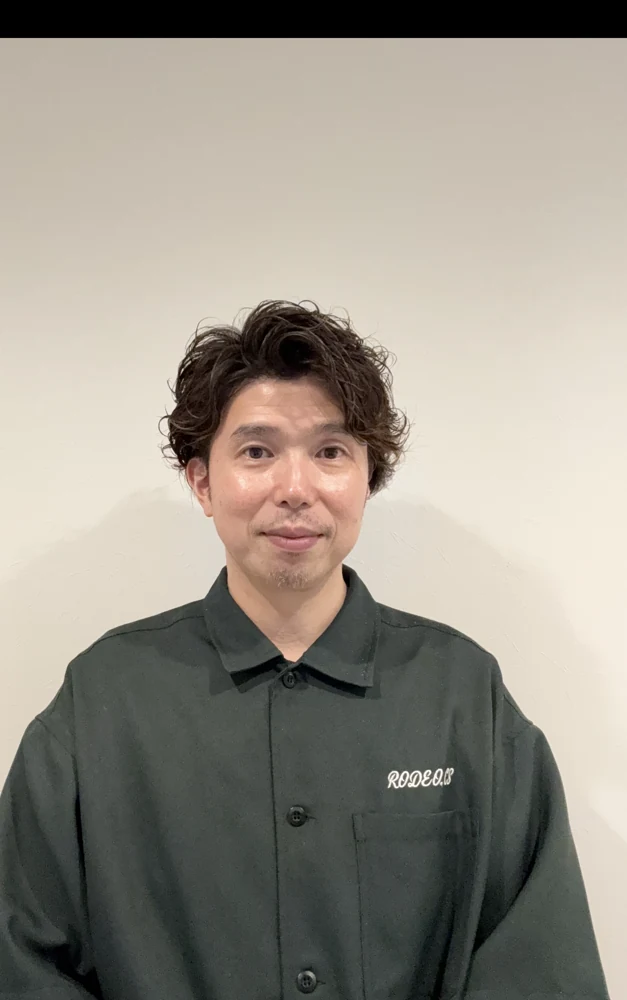
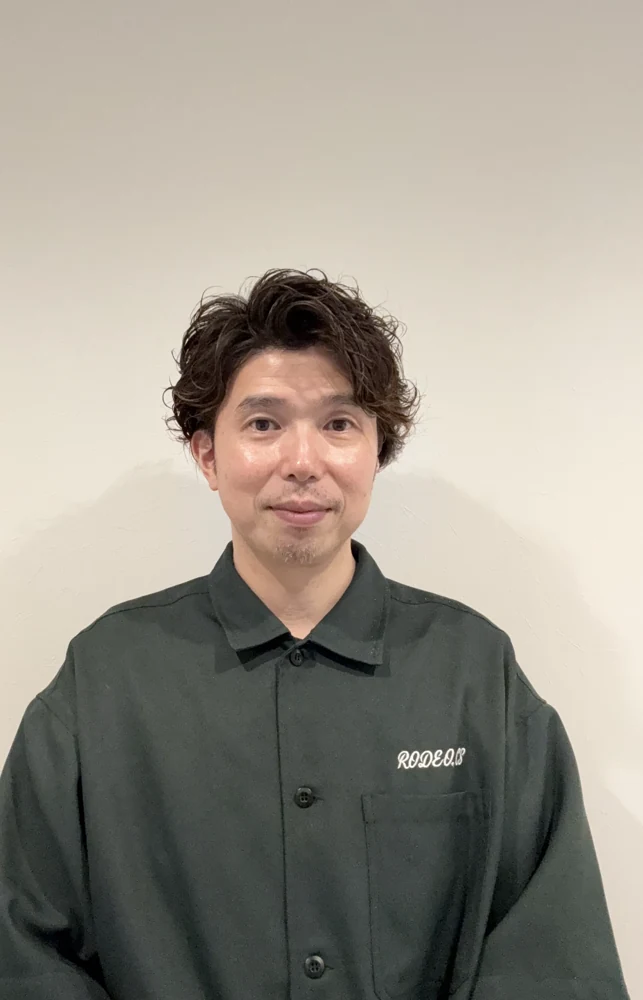
Trim black borders from Hirata portrait

diff --git a/aqua-lp/lp/index.html b/aqua-lp/lp/index.html
@@ -1,1 +1,1 @@
-<!doctype html><html lang="ja"><head><meta charset="utf-8"><meta name="viewport" content="width=device-width,initial-scale=1"><meta name="robots" content="noindex,nofollow"><title>AQUA｜白髪ぼかし・髪質改善｜大和駅徒歩2分</title><meta name="description" content="大和駅徒歩2分。白髪ぼかし・髪質改善に特化した大人女性のためのプライベートサロンAQUA。初回約30分の丁寧なカウンセリングで髪のお悩みに寄り添います。"><link rel="stylesheet" href="style.css"><script src="script.js" defer></script></head><body><a class="skip" href="#main">本文へ</a><aside class="sb-left"><a class="logo" href="#top">AQUA<span>HAIR SALON / YAMATO</span></a><p class="side-message">これからも、<br>髪を楽しむ私へ。</p><nav><a href="#problem"><span>01</span>髪のお悩み</a><a href="#reason"><span>02</span>選ばれる理由</a><a href="#menu"><span>03</span>メニュー・料金</a><a href="#proof"><span>04</span>施術事例</a><a href="#voice"><span>05</span>実績・お客様の声</a><a href="#staff"><span>06</span>スタッフ</a><a href="#faq"><span>07</span>よくある質問</a><a href="#access"><span>08</span>店舗・アクセス</a></nav><small>大和駅 徒歩約2分<br>9:00–19:00 / 火曜定休</small></aside><aside class="sb-right"><span class="eyebrow">YOUR HAIR, YOUR LIFE.</span><h2>髪のお悩みを、<br>安心して相談できる場所。</h2><p>白髪ぼかし・髪質改善<br>大人女性のためのプライベートサロン</p><div class="side-card"><span>初めての方へ</span><h3>まずは、じっくり<br>お話を聞かせてください。</h3><p>初回約30分の<br>丁寧なカウンセリング</p><a class="cta" href="https://beauty.hotpepper.jp/slnH000606561/" target="_blank" rel="noopener">空き状況を確認する<span aria-hidden="true">↗</span></a><small>HOT PEPPER Beautyへ移動します</small></div></aside><main class="main" id="main"><header id="top"><a class="logo" href="#top">AQUA<span>アクア / 大和</span></a><a class="header-link" href="#menu">メニュー・料金 ↓</a></header><section class="hero"><p class="eyebrow">白髪ぼかし / 髪質改善</p><h1>白髪や髪の広がりに<br>お悩みの方へ。<br><em>理想のツヤ髪へ</em><br>導きます。</h1><img class="salon-photo hero-photo" src="assets/hero.webp" alt="自然なツヤとまとまりのあるロングヘアの仕上がり" width="1200" height="1600" loading="eager" decoding="async" fetchpriority="high"><div class="hero-caption"><span>大和駅徒歩2分</span><span>初回カウンセリング 約30分</span></div><div class="intro"><p>白髪ぼかし・髪質改善に特化した、<br>大人女性のためのプライベートサロン。</p><p>初回約30分の丁寧なカウンセリングで、<br>あなたの髪のお悩みに寄り添います。</p><a class="cta" href="https://beauty.hotpepper.jp/slnH000606561/" target="_blank" rel="noopener">ホットペッパービューティーで<br>空き状況を確認する<span aria-hidden="true">↗</span></a></div></section><section id="problem" class="section soft"><div class="section-head"><span class="eyebrow">01 / YOUR CONCERNS</span><h2>こんなお悩み<br>ありませんか？</h2></div><ul class="concerns"><li>白髪染めをしても、すぐ根元が気になる</li><li>白髪を隠すだけでなく、おしゃれなカラーも楽しみたい</li><li>髪が広がり、毎朝アイロンが欠かせない</li><li>カラーを繰り返して髪がパサついている</li><li>トリートメントをしても手触りが長続きしない</li><li>美容室で髪の悩みを十分に相談できなかった</li><li>過去の施術で失敗した経験があり、不安がある</li></ul><p class="conclusion">その髪のお悩み、<br><strong>AQUAにご相談ください。</strong></p></section><section id="reason" class="section"><div class="section-head"><span class="eyebrow">02 / OUR APPROACH</span><h2>AQUAが選ばれる<br>3つの理由</h2></div><img class="salon-photo " src="assets/consultation.webp" alt="カラー見本を見ながらお客様のご希望を伺うカウンセリング風景" width="1200" height="900" loading="lazy" decoding="async"><figure class="care-photo"><img class="salon-photo " src="assets/care.webp" alt="髪の状態を確認しながら施術するAQUAのスタイリスト" width="1200" height="900" loading="lazy" decoding="async"><figcaption>髪の状態を確認しながら、丁寧に。</figcaption></figure><article class="reason"><span class="number">01</span><div><h3>初回約30分の<br>丁寧なカウンセリング</h3><p>普段なかなか伝えられない髪のお悩みや、過去の施術履歴、理想の仕上がりまで丁寧にお伺いします。</p></div></article><article class="reason"><span class="number">02</span><div><h3>白髪ぼかし・髪質改善に<br>特化した専門性</h3><p>白髪・クセ・広がり・ダメージなど、一人ひとり異なる髪の状態を確認し、適した施術をご提案します。</p></div></article><article class="reason"><span class="number">03</span><div><h3>40〜50代女性の<br>髪のお悩みに寄り添う</h3><p>年齢とともに変化する髪のお悩みに向き合い、これからも綺麗な髪を楽しめるようサポートします。</p></div></article></section><section id="menu" class="section soft"><div class="section-head"><span class="eyebrow">03 / MENU & PRICE</span><h2>髪のお悩みに合わせた<br>3つのメニュー</h2></div><article class="menu-card"><span class="eyebrow">MENU A</span><h3>白髪ぼかしハイライト</h3><img class="salon-photo menu-photo" src="assets/highlights.webp" alt="細いハイライトで立体感を出したボブスタイル" width="1070" height="1600" loading="lazy" decoding="async"><h4>白髪を隠すだけではなく、<br>おしゃれを楽しむ。</h4><p>根元や分け目の白髪が気になる方へ。</p><p>細めのハイライトで白髪を自然になじませ、伸びてきても目立ちにくいカラーを目指します。</p><p>派手な仕上がりが苦手な方には、ハイライトを使用しない白髪ぼかしカラーもご提案します。</p><div class="prices"><div><span>初回</span><strong>15,980<small>円（税込）</small></strong></div><div><span>2回目以降</span><b>18,980<small>円（税込）</small></b></div></div><p class="time">初回施術時間：約4時間（カウンセリング込み）<br>2回目以降：約3時間30分</p><a class="cta" href="https://beauty.hotpepper.jp/slnH000606561/" target="_blank" rel="noopener">ホットペッパービューティーで予約する<span aria-hidden="true">↗</span></a></article><article class="menu-card"><span class="eyebrow">MENU B</span><h3>髪質改善ストレート<br>＋カット＋カラー</h3><img class="salon-photo menu-photo" src="assets/straight.webp" alt="毛先までまとまったストレートのロングヘア" width="1200" height="1600" loading="lazy" decoding="async"><h4>毎朝の髪のお手入れを、<br>もっと楽に。</h4><p>髪のクセ・うねり・広がりでお悩みの方へ。</p><p>髪の状態や施術履歴を確認し、自然なツヤとまとまりのあるストレートヘアを目指します。</p><p>朝のアイロンやブローの負担を減らし、扱いやすい髪へ。</p><div class="prices"><div><span>初回</span><strong>22,500<small>円（税込）</small></strong></div><div><span>2回目以降</span><b>23,500<small>円（税込）</small></b></div></div><p class="time">施術時間：約4時間</p><a class="cta" href="https://beauty.hotpepper.jp/slnH000606561/" target="_blank" rel="noopener">ホットペッパービューティーで予約する<span aria-hidden="true">↗</span></a></article><article class="menu-card"><span class="eyebrow">MENU C</span><h3>カット＋カラー<br>＋髪質改善トリートメント</h3><img class="salon-photo menu-photo" src="assets/treatment.webp" alt="明るいブラウンカラーのツヤのある仕上がり" width="1200" height="1600" loading="lazy" decoding="async"><h4>カラーを楽しみながら、<br>髪も綺麗に。</h4><p>繰り返すカラーや白髪染めによるパサつき・ダメージが気になる方へ。</p><p>髪の状態に合わせた内部補修を重視し、ツヤ・手触り・まとまりを整えます。</p><p>カラーを続けながら、これから先の髪の美しさも大切にしたい方におすすめです。</p><div class="prices"><div><span>初回</span><strong>14,980<small>円（税込）</small></strong></div><div><span>2回目以降</span><b>15,480<small>円（税込）</small></b></div></div><p class="time">施術時間：約3時間</p><a class="cta" href="https://beauty.hotpepper.jp/slnH000606561/" target="_blank" rel="noopener">ホットペッパービューティーで予約する<span aria-hidden="true">↗</span></a></article></section><section id="proof" class="section"><div class="section-head"><span class="eyebrow">04 / HAIR GALLERY</span><h2>髪の仕上がりを、<br>あなたの目で。</h2></div><p>実際のお客様の仕上がり写真をご紹介します。</p><article class="case"><h3>ハイライトのあるボブスタイル</h3><img class="salon-photo " src="assets/case-bob.webp" alt="ハイライトのあるボブスタイル" width="899" height="1600" loading="lazy" decoding="async"><p>細いハイライトがつくる、立体感のあるデザイン。</p></article><article class="case"><h3>まとまりのあるロングヘア</h3><img class="salon-photo " src="assets/case-long.webp" alt="まとまりのあるロングヘア" width="1200" height="900" loading="lazy" decoding="async"><p>毛先までまとまった、自然なストレートの仕上がり。</p></article><article class="case"><h3>ツヤのあるロングヘア</h3><img class="salon-photo " src="assets/case-shine.webp" alt="ツヤのあるロングヘア" width="1200" height="1600" loading="lazy" decoding="async"><p>光を受けてツヤが伝わる、なめらかな仕上がり。</p></article><p class="note">※施術結果には個人差があります。</p></section><section id="voice" class="section soft"><div class="section-head"><span class="eyebrow">05 / TRUST & VOICE</span><h2>AQUA店舗全体で、<br>お客様の髪に向き合う。</h2></div><p>AQUA店舗全体の白髪ぼかし施術実績</p><div class="stats"><div><span>累計施術人数</span><strong>1,000<small>人以上</small></strong></div><div><span>月間施術人数</span><strong>約60<small>人</small></strong></div></div><h3 class="voice-title">お客様の声</h3><p>実際にいただいたお客様の感想・口コミは、ホットペッパービューティーでご覧いただけます。</p><a class="text-link" href="https://beauty.hotpepper.jp/slnH000606561/review/" target="_blank" rel="noopener">口コミをもっと見る ↗</a></section><section id="staff" class="section"><div class="section-head"><span class="eyebrow">06 / OUR TEAM</span><h2>お悩みに寄り添う、<br>AQUAのスタッフ。</h2></div><article class="staff-card"><img class="salon-photo portrait" src="assets/staff-hiraga.webp" alt="AQUAスタッフのポートレート" width="627" height="1000" loading="lazy" decoding="async"><span class="eyebrow">オーナースタイリスト</span><h3>平田真一</h3><p>丁寧なカウンセリングで、普段なかなか言えない髪のお悩みまでお伺いします。</p><p class="specialty">得意な施術：髪質改善ストレート・縮毛矯正</p></article><article class="staff-card"><img class="salon-photo portrait" src="assets/staff-fukuda.webp" alt="AQUAスタッフのポートレート" width="750" height="1000" loading="lazy" decoding="async"><span class="eyebrow">スタイリスト</span><h3>福田真央</h3><p>丁寧なカウンセリングと細やかな気遣いを大切にしています。</p><p class="specialty">得意な施術：カラー・ボブスタイル</p></article><article class="staff-card"><img class="salon-photo portrait" src="assets/staff-hirata.webp" alt="AQUAスタッフのポートレート" width="750" height="1000" loading="lazy" decoding="async"><span class="eyebrow">スタイリスト</span><h3>平賀凌</h3><p>お客様のご希望に合わせた白髪ぼかしと、一人ひとりに適したメニュー提案を大切にしています。</p><p class="specialty">得意な施術：白髪ぼかし・ショートカット</p></article></section><section id="faq" class="section soft"><div class="section-head"><span class="eyebrow">07 / QUESTIONS</span><h2>よくある質問</h2></div><details><summary><span>Q.</span>白髪ぼかしは派手になりませんか？</summary><div class="answer">ご希望の明るさや普段のスタイルを丁寧にお伺いします。派手な仕上がりが苦手な方には、ハイライトを使用しない白髪ぼかしカラーもご提案します。</div></details><details><summary><span>Q.</span>髪が傷んでいても髪質改善できますか？</summary><div class="answer">髪の状態と過去の施術履歴によって、適した施術は異なります。カウンセリングでダメージの状態を確認し、施術の可否を含めてご提案します。</div></details><details><summary><span>Q.</span>縮毛矯正と髪質改善ストレートの違いは何ですか？</summary><div class="answer">メニュー名だけでは施術内容や仕上がりを判断しにくいため、クセの強さ・ダメージ・施術履歴とご希望を確認し、施術内容や仕上がりの違いをカウンセリングでご説明します。</div></details><details><summary><span>Q.</span>初めてでも希望の髪型を相談できますか？</summary><div class="answer">はい。初回は約30分のカウンセリングで、お悩みや理想の仕上がりを丁寧にお伺いします。うまく言葉にできないことも、お気軽にご相談ください。</div></details><details><summary><span>Q.</span>駐車場はありますか？</summary><div class="answer">提携駐車場がございます。山口不動産提携駐車場（神奈川県大和市大和南2丁目2-20）は店舗から徒歩約1分です。カットは1時間、カット＋カラーは2時間、縮毛矯正などは3時間、最大3時間まで無料です。超過分はお客様負担となります。</div></details><details><summary><span>Q.</span>どのメニューを予約すればいいか分かりません。</summary><div class="answer">ご希望や気になるお悩みを、ホットペッパービューティーの予約時にお伝えください。ご来店時のカウンセリングで髪の状態を確認し、一人ひとりに適したメニューをご提案します。</div></details></section><section id="access" class="section"><div class="section-head"><span class="eyebrow">08 / SALON & ACCESS</span><h2>大和駅から、徒歩約2分。</h2></div><img class="salon-photo " src="assets/interior.webp" alt="自然光が差し込むAQUAの店内。セット面とソファ席" width="1200" height="900" loading="lazy" decoding="async"><div class="interior-secondary"><img class="salon-photo " src="assets/interior-view.webp" alt="落ち着いた色の椅子が並ぶAQUAのセット面" width="1200" height="900" loading="lazy" decoding="async"></div><h3 class="salon-name">AQUA <small>（アクア）</small></h3><dl class="info"><div><dt>住所</dt><dd>神奈川県大和市大和南1-4-12<br>YORIMOビル2F</dd></div><div><dt>アクセス</dt><dd>大和駅徒歩約2分</dd></div><div><dt>営業時間</dt><dd>9:00〜19:00</dd></div><div><dt>定休日</dt><dd>毎週火曜日</dd></div><div><dt>お支払い</dt><dd>現金・クレジットカード・PayPay</dd></div></dl><div class="parking"><h3>お車・自転車でお越しの方へ</h3><p>提携駐車場あり（山口不動産提携）<br>神奈川県大和市大和南2丁目2-20<br>店舗から徒歩約1分</p><ul><li>カット：1時間無料</li><li>カット＋カラー：2時間無料</li><li>縮毛矯正など：3時間無料</li><li>最大3時間まで無料</li><li>超過分はお客様負担</li></ul><p>駐輪スペースあり。</p></div></section><section id="reservation" class="section closing"><div class="section-head"><span class="eyebrow">09 / WE ARE HERE FOR YOU</span><h2>髪のお悩みを、<br>安心して相談できる美容室。</h2></div><p>白髪や髪の広がり、ダメージなど、<br>髪のお悩みは一人ひとり違います。</p><p>AQUAでは、丁寧なカウンセリングと<br>髪の状態に合わせた施術で、<br>理想のツヤ髪を目指します。</p><p class="closing-message">まずはお気軽にご相談ください。</p><a class="cta" href="https://beauty.hotpepper.jp/slnH000606561/" target="_blank" rel="noopener">ホットペッパービューティーで予約する<span aria-hidden="true">↗</span></a></section><footer><span class="logo">AQUA</span><p>白髪ぼかし・髪質改善 / 大和</p><small>© AQUA</small></footer></main><div class="float-cta"><a class="cta" href="https://beauty.hotpepper.jp/slnH000606561/" target="_blank" rel="noopener">ホットペッパービューティーで予約する<span aria-hidden="true">↗</span></a></div></body></html>
+<!doctype html><html lang="ja"><head><meta charset="utf-8"><meta name="viewport" content="width=device-width,initial-scale=1"><meta name="robots" content="noindex,nofollow"><title>AQUA｜白髪ぼかし・髪質改善｜大和駅徒歩2分</title><meta name="description" content="大和駅徒歩2分。白髪ぼかし・髪質改善に特化した大人女性のためのプライベートサロンAQUA。初回約30分の丁寧なカウンセリングで髪のお悩みに寄り添います。"><link rel="stylesheet" href="style.css"><script src="script.js" defer></script></head><body><a class="skip" href="#main">本文へ</a><aside class="sb-left"><a class="logo" href="#top">AQUA<span>HAIR SALON / YAMATO</span></a><p class="side-message">これからも、<br>髪を楽しむ私へ。</p><nav><a href="#problem"><span>01</span>髪のお悩み</a><a href="#reason"><span>02</span>選ばれる理由</a><a href="#menu"><span>03</span>メニュー・料金</a><a href="#proof"><span>04</span>施術事例</a><a href="#voice"><span>05</span>実績・お客様の声</a><a href="#staff"><span>06</span>スタッフ</a><a href="#faq"><span>07</span>よくある質問</a><a href="#access"><span>08</span>店舗・アクセス</a></nav><small>大和駅 徒歩約2分<br>9:00–19:00 / 火曜定休</small></aside><aside class="sb-right"><span class="eyebrow">YOUR HAIR, YOUR LIFE.</span><h2>髪のお悩みを、<br>安心して相談できる場所。</h2><p>白髪ぼかし・髪質改善<br>大人女性のためのプライベートサロン</p><div class="side-card"><span>初めての方へ</span><h3>まずは、じっくり<br>お話を聞かせてください。</h3><p>初回約30分の<br>丁寧なカウンセリング</p><a class="cta" href="https://beauty.hotpepper.jp/slnH000606561/" target="_blank" rel="noopener">空き状況を確認する<span aria-hidden="true">↗</span></a><small>HOT PEPPER Beautyへ移動します</small></div></aside><main class="main" id="main"><header id="top"><a class="logo" href="#top">AQUA<span>アクア / 大和</span></a><a class="header-link" href="#menu">メニュー・料金 ↓</a></header><section class="hero"><p class="eyebrow">白髪ぼかし / 髪質改善</p><h1>白髪や髪の広がりに<br>お悩みの方へ。<br><em>理想のツヤ髪へ</em><br>導きます。</h1><img class="salon-photo hero-photo" src="assets/hero.webp" alt="自然なツヤとまとまりのあるロングヘアの仕上がり" width="1200" height="1600" loading="eager" decoding="async" fetchpriority="high"><div class="hero-caption"><span>大和駅徒歩2分</span><span>初回カウンセリング 約30分</span></div><div class="intro"><p>白髪ぼかし・髪質改善に特化した、<br>大人女性のためのプライベートサロン。</p><p>初回約30分の丁寧なカウンセリングで、<br>あなたの髪のお悩みに寄り添います。</p><a class="cta" href="https://beauty.hotpepper.jp/slnH000606561/" target="_blank" rel="noopener">ホットペッパービューティーで<br>空き状況を確認する<span aria-hidden="true">↗</span></a></div></section><section id="problem" class="section soft"><div class="section-head"><span class="eyebrow">01 / YOUR CONCERNS</span><h2>こんなお悩み<br>ありませんか？</h2></div><ul class="concerns"><li>白髪染めをしても、すぐ根元が気になる</li><li>白髪を隠すだけでなく、おしゃれなカラーも楽しみたい</li><li>髪が広がり、毎朝アイロンが欠かせない</li><li>カラーを繰り返して髪がパサついている</li><li>トリートメントをしても手触りが長続きしない</li><li>美容室で髪の悩みを十分に相談できなかった</li><li>過去の施術で失敗した経験があり、不安がある</li></ul><p class="conclusion">その髪のお悩み、<br><strong>AQUAにご相談ください。</strong></p></section><section id="reason" class="section"><div class="section-head"><span class="eyebrow">02 / OUR APPROACH</span><h2>AQUAが選ばれる<br>3つの理由</h2></div><img class="salon-photo " src="assets/consultation.webp" alt="カラー見本を見ながらお客様のご希望を伺うカウンセリング風景" width="1200" height="900" loading="lazy" decoding="async"><figure class="care-photo"><img class="salon-photo " src="assets/care.webp" alt="髪の状態を確認しながら施術するAQUAのスタイリスト" width="1200" height="900" loading="lazy" decoding="async"><figcaption>髪の状態を確認しながら、丁寧に。</figcaption></figure><article class="reason"><span class="number">01</span><div><h3>初回約30分の<br>丁寧なカウンセリング</h3><p>普段なかなか伝えられない髪のお悩みや、過去の施術履歴、理想の仕上がりまで丁寧にお伺いします。</p></div></article><article class="reason"><span class="number">02</span><div><h3>白髪ぼかし・髪質改善に<br>特化した専門性</h3><p>白髪・クセ・広がり・ダメージなど、一人ひとり異なる髪の状態を確認し、適した施術をご提案します。</p></div></article><article class="reason"><span class="number">03</span><div><h3>40〜50代女性の<br>髪のお悩みに寄り添う</h3><p>年齢とともに変化する髪のお悩みに向き合い、これからも綺麗な髪を楽しめるようサポートします。</p></div></article></section><section id="menu" class="section soft"><div class="section-head"><span class="eyebrow">03 / MENU & PRICE</span><h2>髪のお悩みに合わせた<br>3つのメニュー</h2></div><article class="menu-card"><span class="eyebrow">MENU A</span><h3>白髪ぼかしハイライト</h3><img class="salon-photo menu-photo" src="assets/highlights.webp" alt="細いハイライトで立体感を出したボブスタイル" width="1070" height="1600" loading="lazy" decoding="async"><h4>白髪を隠すだけではなく、<br>おしゃれを楽しむ。</h4><p>根元や分け目の白髪が気になる方へ。</p><p>細めのハイライトで白髪を自然になじませ、伸びてきても目立ちにくいカラーを目指します。</p><p>派手な仕上がりが苦手な方には、ハイライトを使用しない白髪ぼかしカラーもご提案します。</p><div class="prices"><div><span>初回</span><strong>15,980<small>円（税込）</small></strong></div><div><span>2回目以降</span><b>18,980<small>円（税込）</small></b></div></div><p class="time">初回施術時間：約4時間（カウンセリング込み）<br>2回目以降：約3時間30分</p><a class="cta" href="https://beauty.hotpepper.jp/slnH000606561/" target="_blank" rel="noopener">ホットペッパービューティーで予約する<span aria-hidden="true">↗</span></a></article><article class="menu-card"><span class="eyebrow">MENU B</span><h3>髪質改善ストレート<br>＋カット＋カラー</h3><img class="salon-photo menu-photo" src="assets/straight.webp" alt="毛先までまとまったストレートのロングヘア" width="1200" height="1600" loading="lazy" decoding="async"><h4>毎朝の髪のお手入れを、<br>もっと楽に。</h4><p>髪のクセ・うねり・広がりでお悩みの方へ。</p><p>髪の状態や施術履歴を確認し、自然なツヤとまとまりのあるストレートヘアを目指します。</p><p>朝のアイロンやブローの負担を減らし、扱いやすい髪へ。</p><div class="prices"><div><span>初回</span><strong>22,500<small>円（税込）</small></strong></div><div><span>2回目以降</span><b>23,500<small>円（税込）</small></b></div></div><p class="time">施術時間：約4時間</p><a class="cta" href="https://beauty.hotpepper.jp/slnH000606561/" target="_blank" rel="noopener">ホットペッパービューティーで予約する<span aria-hidden="true">↗</span></a></article><article class="menu-card"><span class="eyebrow">MENU C</span><h3>カット＋カラー<br>＋髪質改善トリートメント</h3><img class="salon-photo menu-photo" src="assets/treatment.webp" alt="明るいブラウンカラーのツヤのある仕上がり" width="1200" height="1600" loading="lazy" decoding="async"><h4>カラーを楽しみながら、<br>髪も綺麗に。</h4><p>繰り返すカラーや白髪染めによるパサつき・ダメージが気になる方へ。</p><p>髪の状態に合わせた内部補修を重視し、ツヤ・手触り・まとまりを整えます。</p><p>カラーを続けながら、これから先の髪の美しさも大切にしたい方におすすめです。</p><div class="prices"><div><span>初回</span><strong>14,980<small>円（税込）</small></strong></div><div><span>2回目以降</span><b>15,480<small>円（税込）</small></b></div></div><p class="time">施術時間：約3時間</p><a class="cta" href="https://beauty.hotpepper.jp/slnH000606561/" target="_blank" rel="noopener">ホットペッパービューティーで予約する<span aria-hidden="true">↗</span></a></article></section><section id="proof" class="section"><div class="section-head"><span class="eyebrow">04 / HAIR GALLERY</span><h2>髪の仕上がりを、<br>あなたの目で。</h2></div><p>実際のお客様の仕上がり写真をご紹介します。</p><article class="case"><h3>ハイライトのあるボブスタイル</h3><img class="salon-photo " src="assets/case-bob.webp" alt="ハイライトのあるボブスタイル" width="899" height="1600" loading="lazy" decoding="async"><p>細いハイライトがつくる、立体感のあるデザイン。</p></article><article class="case"><h3>まとまりのあるロングヘア</h3><img class="salon-photo " src="assets/case-long.webp" alt="まとまりのあるロングヘア" width="1200" height="900" loading="lazy" decoding="async"><p>毛先までまとまった、自然なストレートの仕上がり。</p></article><article class="case"><h3>ツヤのあるロングヘア</h3><img class="salon-photo " src="assets/case-shine.webp" alt="ツヤのあるロングヘア" width="1200" height="1600" loading="lazy" decoding="async"><p>光を受けてツヤが伝わる、なめらかな仕上がり。</p></article><p class="note">※施術結果には個人差があります。</p></section><section id="voice" class="section soft"><div class="section-head"><span class="eyebrow">05 / TRUST & VOICE</span><h2>AQUA店舗全体で、<br>お客様の髪に向き合う。</h2></div><p>AQUA店舗全体の白髪ぼかし施術実績</p><div class="stats"><div><span>累計施術人数</span><strong>1,000<small>人以上</small></strong></div><div><span>月間施術人数</span><strong>約60<small>人</small></strong></div></div><h3 class="voice-title">お客様の声</h3><p>実際にいただいたお客様の感想・口コミは、ホットペッパービューティーでご覧いただけます。</p><a class="text-link" href="https://beauty.hotpepper.jp/slnH000606561/review/" target="_blank" rel="noopener">口コミをもっと見る ↗</a></section><section id="staff" class="section"><div class="section-head"><span class="eyebrow">06 / OUR TEAM</span><h2>お悩みに寄り添う、<br>AQUAのスタッフ。</h2></div><article class="staff-card"><img class="salon-photo portrait" src="assets/staff-hiraga.webp" alt="AQUAスタッフのポートレート" width="643" height="1000" loading="lazy" decoding="async"><span class="eyebrow">オーナースタイリスト</span><h3>平田真一</h3><p>丁寧なカウンセリングで、普段なかなか言えない髪のお悩みまでお伺いします。</p><p class="specialty">得意な施術：髪質改善ストレート・縮毛矯正</p></article><article class="staff-card"><img class="salon-photo portrait" src="assets/staff-fukuda.webp" alt="AQUAスタッフのポートレート" width="750" height="1000" loading="lazy" decoding="async"><span class="eyebrow">スタイリスト</span><h3>福田真央</h3><p>丁寧なカウンセリングと細やかな気遣いを大切にしています。</p><p class="specialty">得意な施術：カラー・ボブスタイル</p></article><article class="staff-card"><img class="salon-photo portrait" src="assets/staff-hirata.webp" alt="AQUAスタッフのポートレート" width="750" height="1000" loading="lazy" decoding="async"><span class="eyebrow">スタイリスト</span><h3>平賀凌</h3><p>お客様のご希望に合わせた白髪ぼかしと、一人ひとりに適したメニュー提案を大切にしています。</p><p class="specialty">得意な施術：白髪ぼかし・ショートカット</p></article></section><section id="faq" class="section soft"><div class="section-head"><span class="eyebrow">07 / QUESTIONS</span><h2>よくある質問</h2></div><details><summary><span>Q.</span>白髪ぼかしは派手になりませんか？</summary><div class="answer">ご希望の明るさや普段のスタイルを丁寧にお伺いします。派手な仕上がりが苦手な方には、ハイライトを使用しない白髪ぼかしカラーもご提案します。</div></details><details><summary><span>Q.</span>髪が傷んでいても髪質改善できますか？</summary><div class="answer">髪の状態と過去の施術履歴によって、適した施術は異なります。カウンセリングでダメージの状態を確認し、施術の可否を含めてご提案します。</div></details><details><summary><span>Q.</span>縮毛矯正と髪質改善ストレートの違いは何ですか？</summary><div class="answer">メニュー名だけでは施術内容や仕上がりを判断しにくいため、クセの強さ・ダメージ・施術履歴とご希望を確認し、施術内容や仕上がりの違いをカウンセリングでご説明します。</div></details><details><summary><span>Q.</span>初めてでも希望の髪型を相談できますか？</summary><div class="answer">はい。初回は約30分のカウンセリングで、お悩みや理想の仕上がりを丁寧にお伺いします。うまく言葉にできないことも、お気軽にご相談ください。</div></details><details><summary><span>Q.</span>駐車場はありますか？</summary><div class="answer">提携駐車場がございます。山口不動産提携駐車場（神奈川県大和市大和南2丁目2-20）は店舗から徒歩約1分です。カットは1時間、カット＋カラーは2時間、縮毛矯正などは3時間、最大3時間まで無料です。超過分はお客様負担となります。</div></details><details><summary><span>Q.</span>どのメニューを予約すればいいか分かりません。</summary><div class="answer">ご希望や気になるお悩みを、ホットペッパービューティーの予約時にお伝えください。ご来店時のカウンセリングで髪の状態を確認し、一人ひとりに適したメニューをご提案します。</div></details></section><section id="access" class="section"><div class="section-head"><span class="eyebrow">08 / SALON & ACCESS</span><h2>大和駅から、徒歩約2分。</h2></div><img class="salon-photo " src="assets/interior.webp" alt="自然光が差し込むAQUAの店内。セット面とソファ席" width="1200" height="900" loading="lazy" decoding="async"><div class="interior-secondary"><img class="salon-photo " src="assets/interior-view.webp" alt="落ち着いた色の椅子が並ぶAQUAのセット面" width="1200" height="900" loading="lazy" decoding="async"></div><h3 class="salon-name">AQUA <small>（アクア）</small></h3><dl class="info"><div><dt>住所</dt><dd>神奈川県大和市大和南1-4-12<br>YORIMOビル2F</dd></div><div><dt>アクセス</dt><dd>大和駅徒歩約2分</dd></div><div><dt>営業時間</dt><dd>9:00〜19:00</dd></div><div><dt>定休日</dt><dd>毎週火曜日</dd></div><div><dt>お支払い</dt><dd>現金・クレジットカード・PayPay</dd></div></dl><div class="parking"><h3>お車・自転車でお越しの方へ</h3><p>提携駐車場あり（山口不動産提携）<br>神奈川県大和市大和南2丁目2-20<br>店舗から徒歩約1分</p><ul><li>カット：1時間無料</li><li>カット＋カラー：2時間無料</li><li>縮毛矯正など：3時間無料</li><li>最大3時間まで無料</li><li>超過分はお客様負担</li></ul><p>駐輪スペースあり。</p></div></section><section id="reservation" class="section closing"><div class="section-head"><span class="eyebrow">09 / WE ARE HERE FOR YOU</span><h2>髪のお悩みを、<br>安心して相談できる美容室。</h2></div><p>白髪や髪の広がり、ダメージなど、<br>髪のお悩みは一人ひとり違います。</p><p>AQUAでは、丁寧なカウンセリングと<br>髪の状態に合わせた施術で、<br>理想のツヤ髪を目指します。</p><p class="closing-message">まずはお気軽にご相談ください。</p><a class="cta" href="https://beauty.hotpepper.jp/slnH000606561/" target="_blank" rel="noopener">ホットペッパービューティーで予約する<span aria-hidden="true">↗</span></a></section><footer><span class="logo">AQUA</span><p>白髪ぼかし・髪質改善 / 大和</p><small>© AQUA</small></footer></main><div class="float-cta"><a class="cta" href="https://beauty.hotpepper.jp/slnH000606561/" target="_blank" rel="noopener">ホットペッパービューティーで予約する<span aria-hidden="true">↗</span></a></div></body></html>
